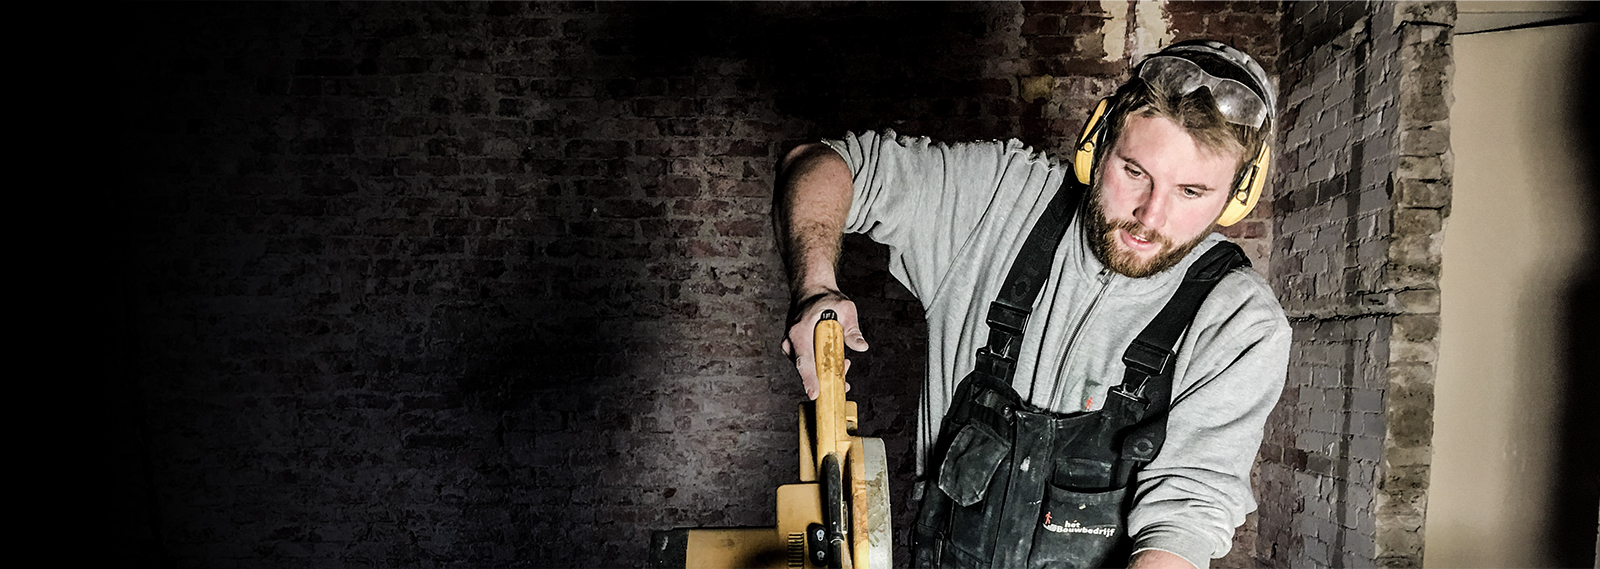
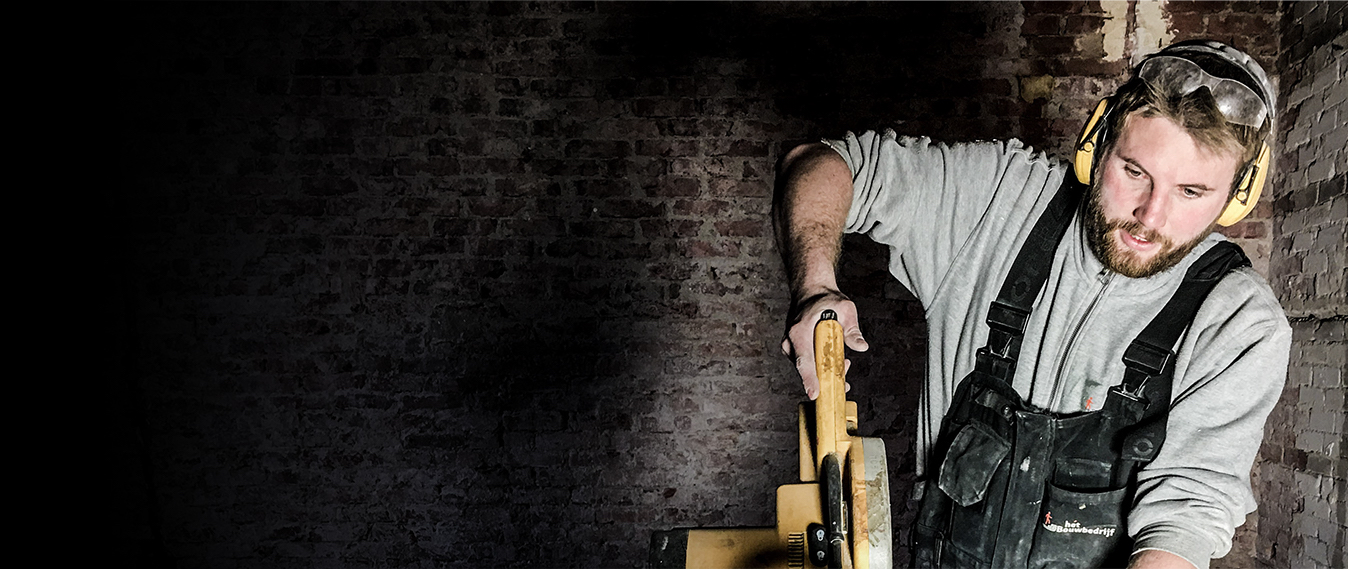
lyuboe sobwenie

diff --git a/styles.css b/styles.css
@@ -82,12 +82,18 @@ img {
     font-weight: 500;
     text-align: center;
     font-family: 'Times New Roman', Times, serif;
+    
+  }
+
+  p {
+    line-height: 30px;
+    letter-spacing: 0.23px;
   }
 
 .landing_page {
   
   background-image: url(./images/Het-Bouwbedrijf-Fotos-23_1_1-1.jpg);
-  background-position: center center;
+  background-position: center right;
     background-size: cover;
     overflow: hidden;
     background-repeat: no-repeat;
@@ -166,6 +172,15 @@ button p {
   display: none;
 }
 
+.fifth {
+  line-height: 30px;
+  letter-spacing: 0.23px;
+}
+
+.fifth li {
+  margin-bottom: 10px;
+}
+
 .footer {
   color: white;
   font-size: 12px;
@@ -181,6 +196,7 @@ button p {
 
 .footer p {
   margin: auto;
+ 
 }
 
 
